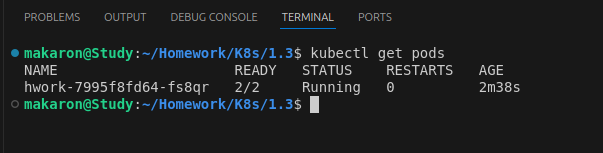
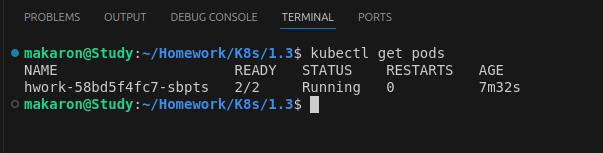
fix

Changed region(s): [[0.1194, 0.5229, 0.3582, 0.6013], [0.8358, 0.5229, 0.8657, 0.6013], [0.7761, 0.5229, 0.806, 0.6013]]

diff --git a/K8s/1.3/README.md b/K8s/1.3/README.md
@@ -14,6 +14,12 @@
 4. Создать Service, который обеспечит доступ до реплик приложений из п.1.
 5. Создать отдельный Pod с приложением multitool и убедиться с помощью `curl`, что из пода есть доступ до приложений из п.1.
 
+### Ответ:
+
+Создан deployment на два контейнера, количество реплик 1:
+
+![1_1](https://github.com/AlekseyStroitelev/Homework/blob/main/K8s/1.3/screenshots/k8s1_1.png)
+
 ------
 
 ### Задание 2. Создать Deployment и обеспечить старт основного контейнера при выполнении условий
